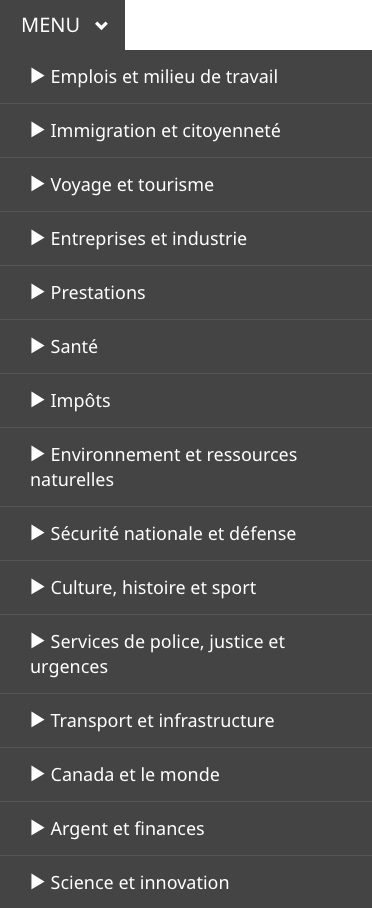
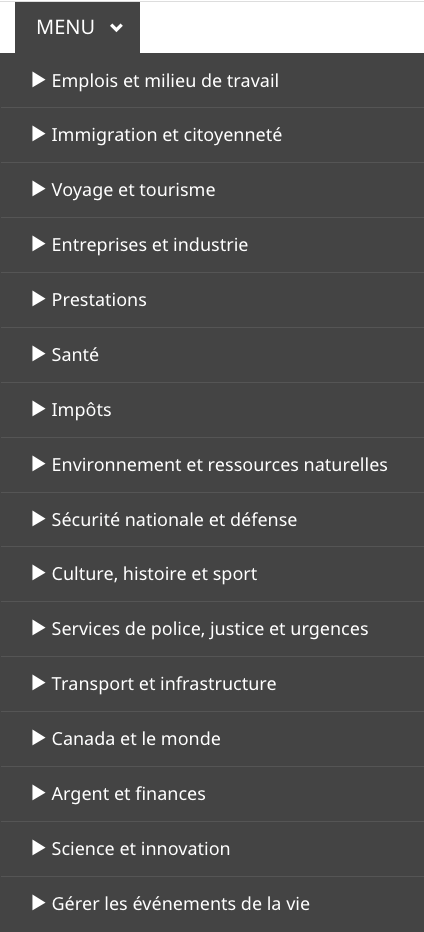
update

diff --git a/configurations-conception-communes/en-tete-global/menu-site.md b/configurations-conception-communes/en-tete-global/menu-site.md
@@ -1,7 +1,7 @@
 ---
 altLangPage: "https://design.canada.ca/common-design-patterns/site-menu.html"
 date: 2017-10-05
-dateModified: 2023-06-26
+dateModified: 2025-07-08
 description: "Orientation sur l’utilisation du menu thématique sur Canada.ca. Le menu thématique donne accès aux principales tâches de tous les sites Web du gouvernement du Canada regroupés sous les principaux thèmes de Canada.ca."
 title: "Menu thématique"
 ---
@@ -71,7 +71,7 @@ title: "Menu thématique"
       <li>Ce bouton est assorti de l’étiquette &laquo;&nbsp;<span class="text-uppercase">Menu</span>&nbsp;&raquo;, avec un chevron vers le bas.</li>
     </ul>
   </li>
-  <li class="mrgn-tp-lg">Liste des thèmes, qui comprend les 15 thèmes principaux de Canada.ca dans l’ordre suivant&nbsp;:
+  <li class="mrgn-tp-lg">Liste des thèmes, qui comprend les 16 thèmes principaux de Canada.ca dans l’ordre suivant&nbsp;:
     <ul>
       <li>Emplois et milieu de travail</li>
       <li>Immigration et citoyenneté</li>
@@ -88,10 +88,11 @@ title: "Menu thématique"
       <li>Canada et le monde</li>
       <li>Argent et finances</li>
       <li>Science et innovation</li>
+      <li>Gérer les événements de la vie</li>
     </ul>
   </li>
   <li class="mrgn-tp-lg">Menu déroulant&nbsp;:
-    <p>Survoler ou cliquer sur l’un des 15 thèmes révèle un menu déroulant contenant&nbsp;:</p>
+    <p>Survoler ou cliquer sur l’un des 16 thèmes révèle un menu déroulant contenant&nbsp;:</p>
     <ul>
       <li>un lien vers la page d’accueil du thème lui-même;</li>
       <li>les sujets de premier niveau dans ce thème;</li>
@@ -106,7 +107,7 @@ title: "Menu thématique"
 <h5>Grands écrans</h5>
 <ul>
   <li>Cliquer sur le bouton de menu développe l’élément de la liste de thèmes avec le menu déroulant des travaux ouverts.</li>
-  <li>Une fois ouvert, survoler ou cliquer sur l’un des 15 thèmes révèle un menu déroulant pour ce thème.</li>
+  <li>Une fois ouvert, survoler ou cliquer sur l’un des 16 thèmes révèle un menu déroulant pour ce thème.</li>
   <li>Il faut cliquer une deuxième fois sur le menu pour le fermer.</li>
 </ul>
 
@@ -158,7 +159,7 @@ title: "Menu thématique"
     <img src="../../images/01-theme-menu-flyout-fr.png" class="img-responsive" alt=" ">
     <details class="mrgn-tp-md">
       <summary class="wb-toggle small" data-toggle="{&quot;print&quot;:&quot;on&quot;}">Description de l’image&nbsp;: Version grand écran du menu thématique avec menu déroulant ouvert</summary>
-      <p class="mrgn-tp-lg">Le menu thématique se compose d’un bouton avec le mot &laquo;&nbsp;Menu&nbsp;&raquo; et d’un chevron orienté vers le bas. Lorsque vous cliquez dessus, il se développe en un menu qui expose les titres des 15 thèmes. Lorsque vous cliquez sur le titre d’un thème, un menu déroulant s’affiche sur le côté droit du menu thématique. Le titre du thème est mis en évidence en haut du menu déroulant tandis que les principaux sujets sont répertoriés sous le titre sur le côté gauche. Sur le côté droit du menu déroulant, il y a un en-tête &laquo;&nbsp;En demande&nbsp;&raquo; suivi d’une liste des tâches les plus sollicitées.</p>
+      <p class="mrgn-tp-lg">Le menu thématique se compose d’un bouton avec le mot &laquo;&nbsp;Menu&nbsp;&raquo; et d’un chevron orienté vers le bas. Lorsque vous cliquez dessus, il se développe en un menu qui expose les titres des 16 thèmes. Lorsque vous cliquez sur le titre d’un thème, un menu déroulant s’affiche sur le côté droit du menu thématique. Le titre du thème est mis en évidence en haut du menu déroulant tandis que les principaux sujets sont répertoriés sous le titre sur le côté gauche. Sur le côté droit du menu déroulant, il y a un en-tête &laquo;&nbsp;En demande&nbsp;&raquo; suivi d’une liste des tâches les plus sollicitées.</p>
     </details>
   </figure>
 </div>
@@ -168,7 +169,7 @@ title: "Menu thématique"
     <img src="../../images/01-menu-mobile-closed-fr.png" class="img-responsive" alt=" ">
     <details class="mrgn-tp-md">
       <summary class="wb-toggle small" data-toggle="{&quot;print&quot;:&quot;on&quot;}">Description de l’image&nbsp;: Version petit écran du menu thématique</summary>
-      <p class="mrgn-tp-lg">Le menu thématique se compose d’un bouton avec le mot &laquo;&nbsp;Menu&nbsp;&raquo; et d’un chevron orienté vers le bas. Lorsque vous cliquez dessus, il se développe en un menu qui expose les titres des 15 thèmes. Lorsque vous cliquez sur le titre d’un thème, un menu déroulant s’affiche sur le côté droit du menu thématique. Le titre du thème est mis en évidence en haut du menu déroulant tandis que les principaux sujets sont répertoriés sous le titre sur le côté gauche. Sur le côté droit du menu déroulant, il y a un en-tête &laquo;&nbsp;En demande&nbsp;&raquo; suivi d’une liste des tâches les plus sollicitées.</p>
+      <p class="mrgn-tp-lg">Le menu thématique se compose d’un bouton avec le mot &laquo;&nbsp;Menu&nbsp;&raquo; et d’un chevron orienté vers le bas. Lorsque vous cliquez dessus, il se développe en un menu qui expose les titres des 16 thèmes. Lorsque vous cliquez sur le titre d’un thème, un menu déroulant s’affiche sur le côté droit du menu thématique. Le titre du thème est mis en évidence en haut du menu déroulant tandis que les principaux sujets sont répertoriés sous le titre sur le côté gauche. Sur le côté droit du menu déroulant, il y a un en-tête &laquo;&nbsp;En demande&nbsp;&raquo; suivi d’une liste des tâches les plus sollicitées.</p>
     </details>
   </figure>
 </div>
@@ -249,6 +250,10 @@ title: "Menu thématique"
 
 <h2 id="changements">Derniers changements</h2>
 <dl class="dl-horizontal">
+<dt>
+    <time datetime="2025-07-08" class="link-muted">2025-07-08</time>
+  </dt>
+  <dd>Mise à jour pour inclure le thème de la « Gérer les événements de la vie »</dd>
   <dt>
     <time>2023-06-26</time>
   </dt>
